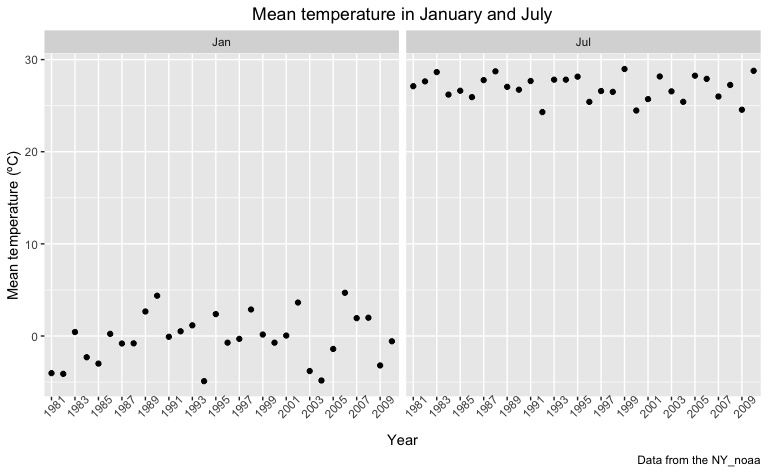
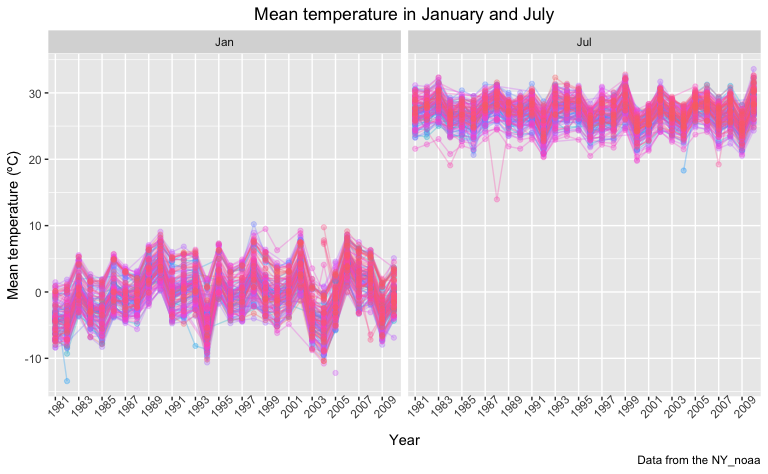
Version 13.
1. make some corrections

2. last figure use hex instead of 2d density plot

diff --git a/p8105_hw3_zf2213.md b/p8105_hw3_zf2213.md
@@ -92,26 +92,20 @@ Florida sharply increased the number of observations of more than 40 locations i
 # filter out year 2002, 2006, 2010 in NY state with response "Excellent"
 brfss %>% filter(year %in% c(2002, 2006, 2010), response == "Excellent", state == "NY") %>% 
           # group according to area
-          group_by(area) %>% 
+          group_by(year) %>% 
           # get mean and sd across three years
           summarize(mean = mean(data_value), sd = sd(data_value)) %>% 
           # make a readable table
           knitr::kable(digits = 2, caption = "Excellent proportions")
 ```
 
-| area               |   mean|    sd|
-|:-------------------|------:|-----:|
-| Bronx County       |  17.60|    NA|
-| Erie County        |  17.20|    NA|
-| Kings County       |  20.37|  1.77|
-| Monroe County      |  22.40|    NA|
-| Nassau County      |  24.93|  2.82|
-| New York County    |  27.50|  1.54|
-| Queens County      |  19.63|  1.36|
-| Suffolk County     |  24.10|  3.28|
-| Westchester County |  26.45|  0.64|
+|  year|   mean|    sd|
+|-----:|------:|-----:|
+|  2002|  24.04|  4.49|
+|  2006|  22.53|  4.00|
+|  2010|  22.70|  3.57|
 
-Since in Bronx, Erie and Monroe, there were only one observation out of three years, so sd are NAs. On average the New York County has most people responded excellent and least people responded excellent in Erie County.
+Year 2002 has highest mean proportion of Excellent response, and largest standard deviation. Year 2006 has lowest mean proportion of excellent response, year 2010 has smallest standard deviation.
 
 **Q4. For each year and state, compute the average proportion in each response category (taking the average across locations in a state). Make a five-panel plot that shows, for each response category separately, the distribution of these state-level averages over time.**
 
@@ -348,15 +342,16 @@ Divide tmin, tmax, prcp by 10 to be in ºC and mm units. There is a snow value l
 ``` r
 # get January and July
 ny_noaa %>% filter(month %in% c("01", "07")) %>%
- # group according to year and month
- group_by(year, month) %>%
- # get mean for each group
- summarize(mean_temp = mean(tmax, na.rm = TRUE)) %>%
  # recode the month name
  mutate(month = recode(month, "01" = "Jan", "07" = "Jul")) %>%
+ # group according to year and month
+ group_by(year, month, id) %>%
+ # get mean for each group
+ summarize(mean_temp = mean(tmax, na.rm = TRUE)) %>%
  # plot multi facets plot
- ggplot(aes(y = mean_temp, x = year)) +
-   geom_point() +
+ ggplot(aes(y = mean_temp, x = year, group = id, color = id)) +
+   geom_line(alpha = 0.3, show.legend = FALSE) +
+   geom_point(alpha = 0.3, show.legend = FALSE) +
    # seperate by month
    facet_grid(. ~ month) +
    scale_x_discrete(breaks = seq(1981,2010,2)) +
@@ -371,9 +366,13 @@ ny_noaa %>% filter(month %in% c("01", "07")) %>%
          axis.text.x = element_text(angle = 45))
 ```
 
+    ## Warning: Removed 5640 rows containing missing values (geom_path).
+
+    ## Warning: Removed 5970 rows containing missing values (geom_point).
+
 <img src="p8105_hw3_zf2213_files/figure-markdown_github/p3_q2-1.png" width="100%" />
 
-Max temperatures are high in July , around 27.5 ºC, and low in Janurary, around 0 ºC, which are quite reasonable. There is no obvious outlier.
+Max temperatures are high in July , around 27.5 ºC, and low in Janurary, around 0 ºC, which are quite reasonable. The range of temperature in Janurary is high, and low in July. In 1994 and 2004 the minimal temperature is extremely low. There are very a few outliers.
 
 **Q3. Make a two-panel plot showing (i) tmax vs tmin for the full dataset (note that a scatterplot may not be the best option); and (ii) make a plot showing the distribution of snowfall values greater than 0 and less than 100 separately by year.**
 
@@ -382,7 +381,7 @@ Max temperatures are high in July , around 27.5 ºC, and low in Janurary, around
 tmax_tmin <- ny_noaa %>%
              ggplot(aes(x = tmax, y = tmin)) +
                # using two dimensional density plot
-               geom_density_2d() +
+               geom_hex() +
                labs(
                  title = "Max vs Min Temperature",
                  y = "Min temperature (ºC)",
@@ -405,12 +404,12 @@ snf <- ny_noaa %>%
          ) +
          theme(axis.text.x = element_text(angle = 30))
 
+# for multipanel plotting
 library(patchwork)
 tmax_tmin / snf
 ```
 
-    ## Warning: Removed 1136276 rows containing non-finite values
-    ## (stat_density2d).
+    ## Warning: Removed 1136276 rows containing non-finite values (stat_binhex).
 
 <img src="p8105_hw3_zf2213_files/figure-markdown_github/p3_q3-1.png" width="100%" />
 
